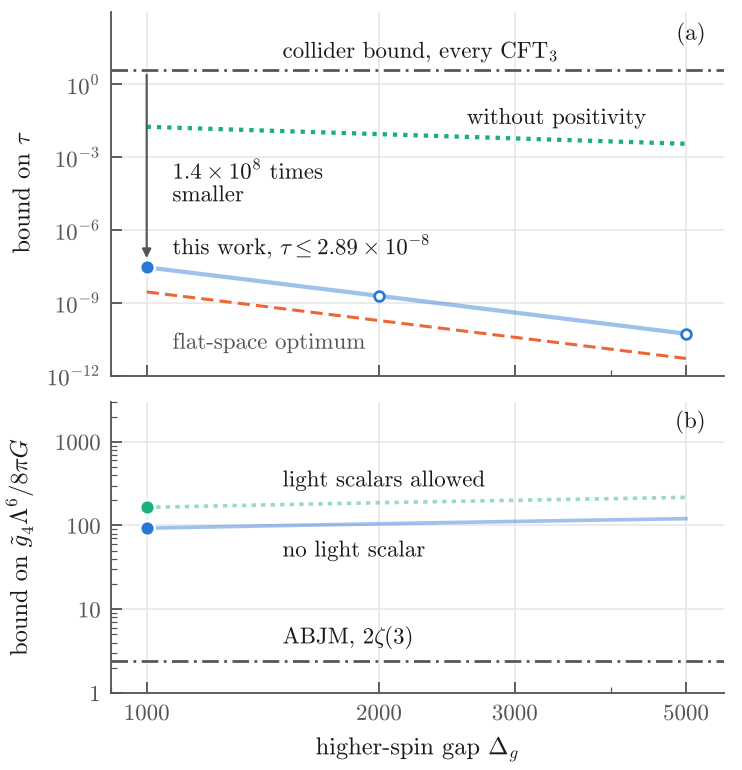
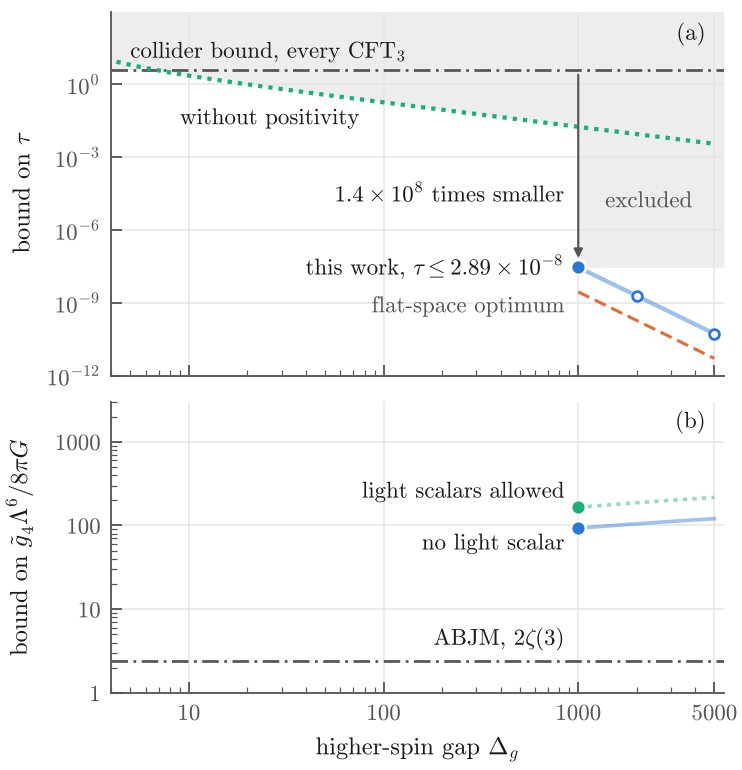
Scope: string-scale inversion of the bounds (any gap, no positivity) and exclusion-plot Fig. 2(a); SM inversion paragraph; cover letter and arXiv abstract updated
Claude-Session: https://claude.ai/code/session_0187m7xNcdZ8Y7PRJFVNoNPq

diff --git a/ads4/prl/letter.tex b/ads4/prl/letter.tex
@@ -22,8 +22,8 @@ Holography predicts that CFTs with large central charge and a large gap behave l
 gravity, with corrections that fall as powers of the gap. For three-dimensional CFTs we determine the
 constants. A gap of 1000 forces the graviton's three-point couplings to agree with their Einstein values
 to one part in $10^8$ at leading order in $1/c_T$. The bound rests on a positivity property, which we establish by computer-assisted proofs in flat space and, at that gap, on every heavy state in AdS.
-Under a further positivity assumption we also bound the first stringy correction. Without any positivity
-input, commutativity of energy detectors and crossing still bound the deviation by $0.018$.
+Under a further positivity assumption we also bound the first stringy correction. Without any positivity input, commutativity of energy detectors and crossing still bound the deviation by $0.018$. Read in
+reverse, the bounds locate the string scale: a deviation $\tau$ requires a higher-spin state below twist about $2+17.8/\tau$.
 \end{abstract}
 
 \maketitle
@@ -65,8 +65,8 @@ Here we take those steps for AdS$_4$/CFT$_3$. We show that a gap of 1000 forces 
 of the stress tensor to agree with its Einstein form to one part in $10^8$ [Fig.~\ref{fig:concept}(a)], and we bound the leading stringy
 ($R^4$) correction to graviton scattering from above. Both bounds follow from positivity of fixed
 linear functionals on the heavy spectrum [Fig.~\ref{fig:concept}(b)]. For the cubic bound we establish this positivity at $\Delta_g=1000$,
-on every heavy state, with a computer-assisted proof (Fig.~\ref{fig:coverage}). Without any positivity
-input, the algebra of energy detectors together with crossing still gives a weaker bound. We say ``we prove'' for a written proof and ``certified'' for a computer-assisted proof in
+on every heavy state, with a computer-assisted proof (Fig.~\ref{fig:coverage}). Without any positivity input, the algebra of energy detectors together with crossing still gives a weaker bound, valid at
+any gap. Read in reverse, it bounds the string scale of any such theory from above in terms of its measured deviation from Einstein gravity. We say ``we prove'' for a written proof and ``certified'' for a computer-assisted proof in
 interval or directed-rounding arithmetic. ``With error control'' marks a computation in which every modeled term
 carries a threefold safety factor, ``in a model'' one whose accuracy is itself a hypothesis, and ``we sketch'' an
 argument whose details are not complete. The Supplemental Material~\cite{SM} grades every
@@ -156,6 +156,13 @@ identities hold as operator identities (the ladder is checked exactly for spins 
 commutator exists and converges in the light-cone limit, as assumed in Ref.~\cite{KKSDZ}, and that $T\times T$ contains no scalar of
 dimension at most one. Its $1/\Delta_g$ scaling is far from optimal.
 
+\textit{Locating the string scale}---Both bounds can be read the other way [Fig.~\ref{fig:bounds}(a)]. A large-$c_T$
+CFT$_3$ that obeys (ii), and whose stress tensor deviates from Einstein gravity by $\tau$, must contain a single trace of
+spin four or more in $T\times T$ with twist below $g_*(\tau)\approx2+17.8/\tau$, by Eq.~\eqref{eq:angular}; the approximation is good to $1\%$ for $\tau\le1$, and the exact $g_*$ is given in the Supplemental Material~\cite{SM}. Under the assumptions of Eq.~\eqref{eq:cubic}, any $\tau>2.9\times10^{-8}$ requires such a
+state below twist 1000. A measurement of the three-point function of the stress tensor thus bounds the mass of the lightest
+higher-spin state, the string scale of the bulk, from above. Large-$N$ Chern--Simons-matter theories, in which $\tau$ is of
+order one and higher-spin currents have twist close to one~\cite{GPY}, satisfy this comfortably.
+
 \textit{How the bounds arise}---Light-transformed stress tensors~\cite{KSDlight} act as energy detectors at
 null infinity, and two detectors commute when they are spacelike separated. Integrating the expectation
 value of their double commutator against a weight gives a sum rule~\cite{KKSDZ,CLSD}. If the weight decays
@@ -230,7 +237,7 @@ the size of higher-derivative terms. The cubic bound is about ten times weaker i
 optimum transplanted to AdS~\cite{CHLPS}, which uses sum rules not available here. The quartic bound is
 dominated by an infrared logarithm. Relative to the parametric statements of Refs.~\cite{KKSDZ,BHM,AKT} and the
 flat-space and higher-dimensional precedents~\cite{CHLPS,CHLPSpw}, we give explicit constants derived from $\langle TTTT\rangle$, a computer-assisted proof that a dispersive functional is positive on the entire heavy spectrum of AdS at
-finite gap, a bound on the parity-odd coupling $\alpha_T$, and, assuming positivity of the quartic functional, an
+finite gap, a bound on the parity-odd coupling $\alpha_T$, an upper bound on the string scale in terms of the measured deviation, and, assuming positivity of the quartic functional, an
 AdS bound on a graviton $R^4$ coefficient, which localization determines in ABJ(M) theory~\cite{BCP,BCJP}. Because the constants are explicit, the bounds can be compared directly with string theory, as the ABJM check
 shows, and used as inputs in constraints on gravitational effective theories. The method should carry over to other gaps, where positivity has to be established anew, and to higher dimensions; AdS$_5$/CFT$_4$, where $\mathcal N=4$ super-Yang--Mills theory supplies exact checks, is the natural
 next case.

diff --git a/ads4/prl/fig/make_fig.py b/ads4/prl/fig/make_fig.py
@@ -94,7 +94,7 @@ plt.rcParams.update({'font.family': 'serif', 'font.serif': ['cmr10'], 'mathtext.
                      'text.color': INK, 'axes.labelcolor': INK, 'pdf.fonttype': 42})
 fig, (ax1, ax2) = plt.subplots(2, 1, figsize=(3.375, 3.5), sharex=True,
                                gridspec_kw=dict(hspace=0.08, height_ratios=[1.25, 1]))
-XMIN, XMAX = 900, 5600
+XMIN, XMAX = 4, 5600
 for ax in (ax1, ax2):
     ax.set_xscale('log'); ax.set_yscale('log'); ax.set_xlim(XMIN, XMAX)
     ax.grid(True, which='major', color=GRID, lw=0.5, zorder=0)
@@ -104,24 +104,32 @@ LAB = dict(fontsize=FS, color=INK)
 
 # ------------------------------------------------------------------ (a) how close to Einstein
 ax1.axhline(TAU_COLL, color=INK2, lw=0.9, ls=(0, (6, 2, 1, 2)), zorder=2)
-ax1.text(1500, TAU_COLL * 1.8, r'collider bound, every CFT$_3$', ha='left', va='bottom', **LAB)
+ax1.text(5, TAU_COLL * 1.8, r'collider bound, every CFT$_3$', ha='left', va='bottom', **LAB)
 ax1.plot(xs, [V[x]['chlps_tau'] for x in xs], color=C2, ls=(0, (4, 2)), lw=1.0, zorder=3)
 ax1.plot(xs, [V[x]['tau'] for x in xs], color=C1, lw=1.4, alpha=0.45, zorder=3)   # beyond 1000: assumes positivity at own gap
 ax1.plot([2000, 5000], [V[2000]['tau'], V[5000]['tau']], 'o', ms=3.2, mfc='white', mec=C1, mew=0.9, zorder=4)
 t1000 = V[1000]['tau']
 ax1.plot([1000], [t1000], 'o', ms=4.8, mfc=C1, mec='white', mew=0.8, zorder=5, clip_on=False)
-ang = [160.0 / 9.0 / (x - 2) * (1 - 49.0 / (2 * x + 9) ** 2) ** -0.5 for x in xs]
-ax1.plot(xs, ang, color=C3, ls=(0, (1, 1.4)), lw=1.4, zorder=3)
+import numpy as _np
+def angb(x): return 160.0 / 9.0 / (x - 2) * (1 - 49.0 / (2 * x + 9) ** 2) ** -0.5
+xa = list(_np.logspace(_np.log10(3.0), _np.log10(5000.0), 400))
+ax1.plot(xa, [angb(x) for x in xa], color=C3, ls=(0, (1, 1.4)), lw=1.4, zorder=3)
+# excluded region: above the collider bound, above the positivity-free bound (any gap), and for gaps >= 1000 above the
+# certified cubic bound (a theory with a larger gap also has a gap of 1000)
+xe = list(_np.logspace(_np.log10(XMIN), _np.log10(XMAX), 800))
+low = [min(TAU_COLL, angb(x) if x > 2.5 else 1e9, V[1000]['tau'] if x >= 1000 else 1e9) for x in xe]
+ax1.fill_between(xe, low, 1e3, color='#ededed', lw=0, zorder=0.5)
+ax1.text(2300, 1.5e-5, 'excluded', ha='center', va='center', fontsize=FS, color=INK2, style='italic')
 # direct labels, each in empty space next to its own line
 v26 = vals(2600)
 ang26 = 160.0 / 9.0 / (2600 - 2) * (1 - 49.0 / (2 * 2600 + 9) ** 2) ** -0.5
-ax1.text(2600, ang26 * 2.2, 'without positivity', ha='left', va='bottom', **LAB)
-ax1.text(1080, t1000 * 2.0, r'this work, $\tau\leq2.89\times10^{-8}$', ha='left', va='bottom', **LAB)
-ax1.text(1080, vals(2300)['chlps_tau'] / 1.8, 'flat-space optimum', ha='left', va='top', color=INK2, fontsize=FS)
+ax1.text(9, angb(30) / 6.0, 'without positivity', ha='left', va='top', **LAB)
+ax1.text(850, t1000, r'this work, $\tau\leq2.89\times10^{-8}$', ha='right', va='center', **LAB)
+ax1.text(850, vals(1000)['chlps_tau'] / 4, 'flat-space optimum', ha='right', va='center', color=INK2, fontsize=FS)
 # the factor between the collider bound and this work, as an arrow at Delta_g = 1000
 ax1.annotate('', xy=(1000, t1000 * 2.4), xytext=(1000, TAU_COLL / 1.6),
              arrowprops=dict(arrowstyle='-|>', color=INK2, lw=0.7, mutation_scale=6, shrinkA=0, shrinkB=0), zorder=4)
-ax1.text(1080, 1e-4, r'$1.4\times10^{8}$ times' + '\nsmaller', ha='left', va='center', linespacing=1.15, **LAB)
+ax1.text(850, 3e-5, r'$1.4\times10^{8}$ times smaller', ha='right', va='center', **LAB)
 ax1.set_ylim(1e-12, 1e3)
 ax1.set_yticks([1e-12, 1e-9, 1e-6, 1e-3, 1e0])
 ax1.yaxis.set_minor_locator(matplotlib.ticker.NullLocator())
@@ -133,15 +141,15 @@ for key, col, ls in (('q2b', C3, (0, (1.2, 1.4))), ('q2a', C1, '-')):
     ax2.plot(xs, [V[x][key] for x in xs], color=col, ls=ls, lw=1.2, alpha=0.45, zorder=3)
     ax2.plot([1000], [V[1000][key]], 'o', ms=4.8, mfc=col, mec='white', mew=0.8, zorder=5, clip_on=False)
 ax2.axhline(ZETA3x2, color=INK2, lw=0.9, ls=(0, (6, 2, 1, 2)), zorder=2)
-ax2.text(1500, ZETA3x2 * 1.35, r'ABJM, $2\zeta(3)$', ha='left', va='bottom', **LAB)
-ax2.text(1500, vals(1500)['q2b'] * 1.45, 'light scalars allowed', ha='left', va='bottom', **LAB)
-ax2.text(1500, vals(1500)['q2a'] / 1.5, 'no light scalar', ha='left', va='top', **LAB)
+ax2.text(850, ZETA3x2 * 1.3, r'ABJM, $2\zeta(3)$', ha='right', va='bottom', **LAB)
+ax2.text(850, vals(1000)['q2b'] * 1.15, 'light scalars allowed', ha='right', va='bottom', **LAB)
+ax2.text(850, vals(1000)['q2a'] / 1.15, 'no light scalar', ha='right', va='top', **LAB)
 ax2.set_ylim(1, 3000)
 ax2.set_yticks([1, 10, 100, 1000]); ax2.set_yticklabels(['1', '10', '100', '1000'])
 ax2.yaxis.set_minor_formatter(matplotlib.ticker.NullFormatter())
 ax2.set_ylabel(r'bound on $\tilde{g}_4\Lambda^6/8\pi G$')
 ax2.set_xlabel(r'higher-spin gap $\Delta_g$')
-ax2.set_xticks([1000, 2000, 3000, 5000]); ax2.set_xticklabels(['1000', '2000', '3000', '5000'])
+ax2.set_xticks([10, 100, 1000, 5000]); ax2.set_xticklabels(['10', '100', '1000', '5000'])
 ax2.xaxis.set_minor_formatter(matplotlib.ticker.NullFormatter())
 ax2.text(0.97, 0.97, '(b)', transform=ax2.transAxes, ha='right', va='top', **LAB)
 

diff --git a/ads4/prl/supplement.tex b/ads4/prl/supplement.tex
@@ -132,6 +132,8 @@ $\Omega^Q$ row of Table~\ref{tab:computed} ([NE$\pm$], $L\ge58$ at the binding p
 saddle-point rows on the last $4\%$ of the $\nu$ range); ``elsewhere its values are computed in models or interpolated'' are the
 [NE\,+\,M] and [M] entries for $\Omega^Q_{\rm up}$ in Table~\ref{tab:computed}.
 
+\emph{Locating the string scale.} The inversion paragraph of Sec.~\ref{sec:angular} (``Inversion''), with the grades of items (3) and (1); the Chern--Simons-matter remark is [Q].
+
 \emph{ABJM.} ``Assumptions (i) and (ii) hold at leading order'' and ``the scalar condition holds too'' are [D-sketch]
 (Sec.~\ref{sec:abjm}); $2.6\%$ is [DV] with the identification $\Lambda\leftrightarrow ML$ at leading order in $1/(ML)$.
 
@@ -2085,6 +2087,11 @@ t_4^2+\alpha_T^2\le\frac{16(3+\mathcal D)}{K(\Delta_g)}+16\mathcal L_g ,
 \]
 with $\mathcal L_g$ the fourth-harmonic weight of states below the gap. Hence $\tau\le0.0178$ at $\Delta_g=1000$ when
 $\mathcal D=\mathcal L_g=0$, falling as $(160/9)/\Delta_g$.
+
+\emph{Inversion (the Letter's ``Locating the string scale'').} $K$ is increasing for $g>2$, so with $\mathcal D=\mathcal L_g=0$ a theory with
+deviation $\tau$ has $K(\Delta_g)\le48/\tau^2$, i.e.\ $\Delta_g\le g_*(\tau)$ with $K(g_*)=48/\tau^2$; explicitly
+$g_*(\tau)=2+\frac{160}{9\tau}\big[1+O(\tau^2)\big]$ (the correction is $1.0\%$ at $\tau=1$, $5\%$ at the collider value $\tau=4$, and below $2\times10^{-4}$ for $\tau\le0.1$; $g_*$ always exceeds the leading form). By the Remark of
+Sec.~\ref{sec:allgap}.A, item (1) gives $\Delta_g<1000$ whenever $\tau>\tau_0(1000)$. Same inputs and grades as items (3) and (1).
 
 \emph{The two corrections.} $\mathcal D=0$ is equivalent to the absence of a critical $L^{-2}$ tail of the spin-weighted endpoint
 measure in the band $\sqrt J\lesssim\Delta-J\ll J$; bounded-, slowly-growing- and comparable-twist sectors provably contribute nothing.

diff --git a/ads4/prl/COVER_LETTER.md b/ads4/prl/COVER_LETTER.md
@@ -19,7 +19,7 @@ The method uses the commutativity of energy detectors (light-transformed stress 
 
 The Letter states its assumptions in one place and marks each result as proved, certified, numerical or conditional; positivity of the quartic functional, for instance, remains an assumption. The Supplemental Material grades every statement against a stated legend. The functional weights are published as exact rationals and tables, separate code reproduces every constant from them, key reductions were rederived independently from the written statements alone, and the positivity certificates are published with their inputs, outputs and replay scripts. Data and code are available at https://doi.org/10.5281/zenodo.24571131.
 
-We believe the Letter meets the criteria of Physical Review Letters. That a large gap forces Einstein gravity is a central expectation of holography, but it has so far been established only as a scaling law; this Letter gives the constant. The positivity that drives such bounds is established here, for the cubic functional, on the entire heavy spectrum at a gap of 1000 by a computer-assisted proof. To our knowledge this is the first such positivity proof at finite gap in AdS. Separately, without any positivity assumption, the algebra of energy detectors together with crossing symmetry bounds the deviation by 0.018 at a gap of 1000, falling as the inverse gap, with an explicit list of inputs. The results quantify how closely unitarity and causality force a holographic theory to follow Einstein gravity. The question is relevant to holography and quantum gravity, the conformal and S-matrix bootstraps, string theory, and the study of energy correlators. We have written the main text for that readership and put the technical detail in the Supplemental Material.
+We believe the Letter meets the criteria of Physical Review Letters. That a large gap forces Einstein gravity is a central expectation of holography, but it has so far been established only as a scaling law; this Letter gives the constant. The positivity that drives such bounds is established here, for the cubic functional, on the entire heavy spectrum at a gap of 1000 by a computer-assisted proof. To our knowledge this is the first such positivity proof at finite gap in AdS. Separately, without any positivity assumption, the algebra of energy detectors together with crossing symmetry bounds the deviation by 0.018 at a gap of 1000, falling as the inverse gap, with an explicit list of inputs. Read in reverse, this holds at any gap and turns a measured deviation τ into an upper bound, about 2 + 17.8/τ, on the twist of the lightest higher-spin state, that is, on the string scale of the bulk. The results quantify how closely unitarity and causality force a holographic theory to follow Einstein gravity. The question is relevant to holography and quantum gravity, the conformal and S-matrix bootstraps, string theory, and the study of energy correlators. We have written the main text for that readership and put the technical detail in the Supplemental Material.
 
 The manuscript is not published or under consideration for publication elsewhere. It has been posted to the arXiv as arXiv:[XXXX.XXXXX]. Suggested referees are listed in the submission form.
 

diff --git a/ads4/prl/ARXIV.md b/ads4/prl/ARXIV.md
@@ -20,7 +20,7 @@ affiliations appear only in the PDF.)
 A plain-text version of the Letter's abstract, written for listings (`10^8` instead of `$10^8$`; arXiv also renders `$...$`).
 
 ```
-Holography predicts that conformal field theories with a large central charge c_T and a large gap behave like Einstein gravity, with corrections that fall as powers of the gap. For three-dimensional theories we determine the constants. With a gap of 1000 or more, the graviton's three-point couplings agree with Einstein gravity to one part in 10^8 at leading order in 1/c_T. The bounds follow from the commutativity of energy detectors, a consequence of causality, together with a positivity property. We prove it in flat space and, at a gap of 1000, establish it in anti-de Sitter space on every heavy state by a computer-assisted proof. Under a further positivity assumption the first stringy correction is bounded from above, and the ABJM value lies below the bound.
+Holography predicts that conformal field theories with a large central charge c_T and a large gap behave like Einstein gravity, with corrections that fall as powers of the gap. For three-dimensional theories we determine the constants. With a gap of 1000 or more, the graviton's three-point couplings agree with Einstein gravity to one part in 10^8 at leading order in 1/c_T. The bounds follow from the commutativity of energy detectors, a consequence of causality, together with a positivity property. We prove it in flat space and, at a gap of 1000, establish it in anti-de Sitter space on every heavy state by a computer-assisted proof. Under a further positivity assumption the first stringy correction is bounded from above, and the ABJM value lies below the bound. Without positivity, energy-detector commutativity and crossing still bound the deviation tau by about 17.8/Delta_g at any gap; read in reverse, a measured deviation tau places a higher-spin state, and so the bulk string scale, below twist about 2 + 17.8/tau.
 ```
 
 ## Comments
